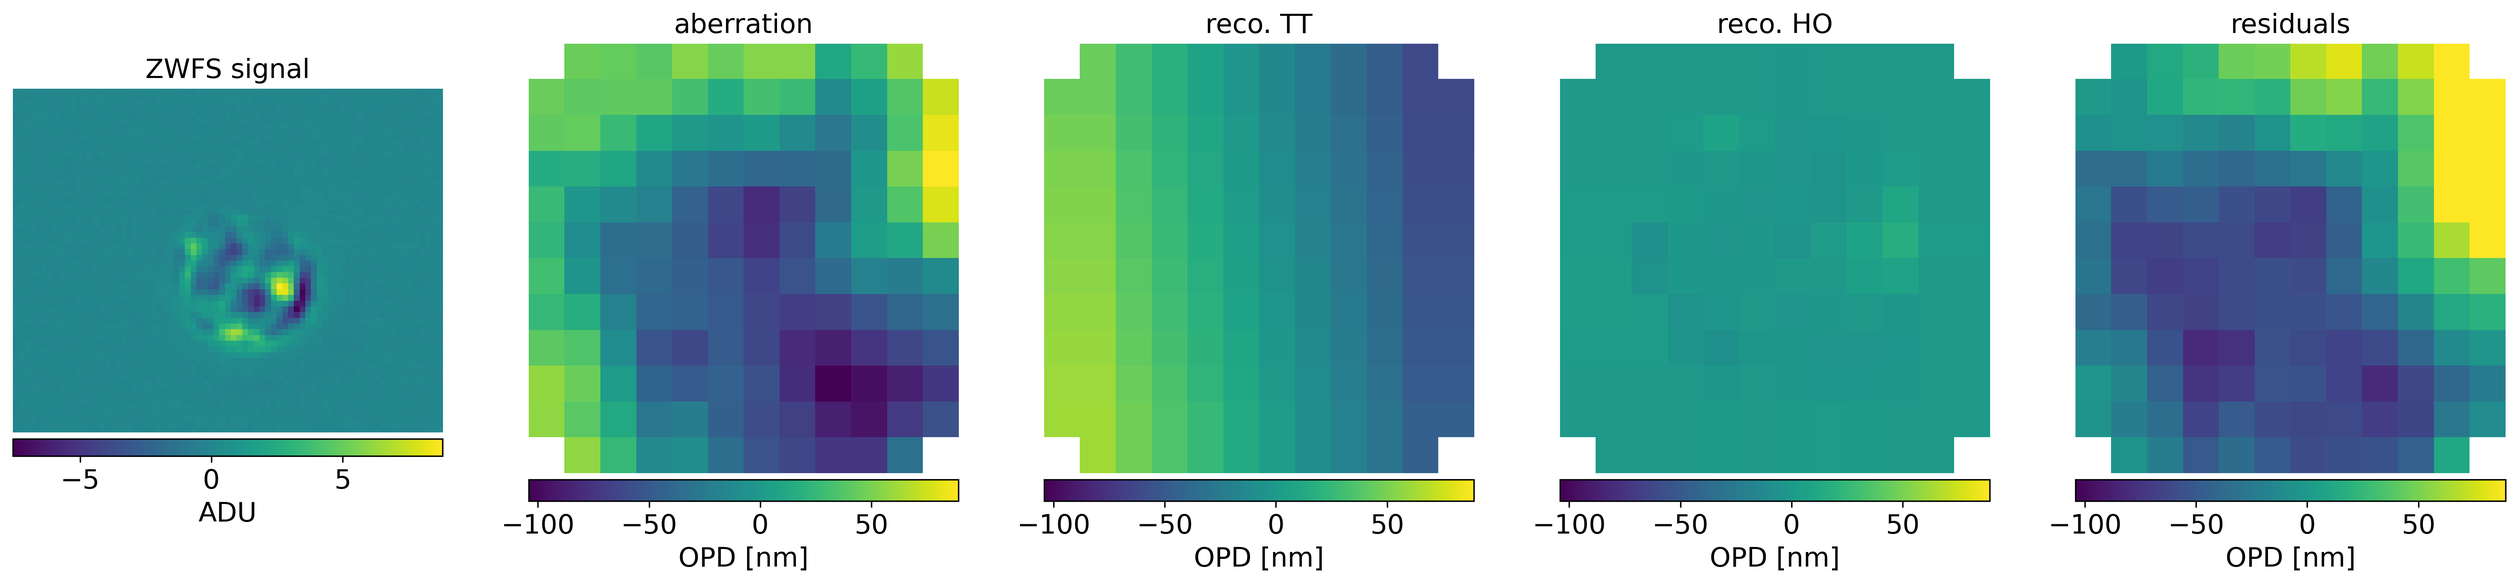
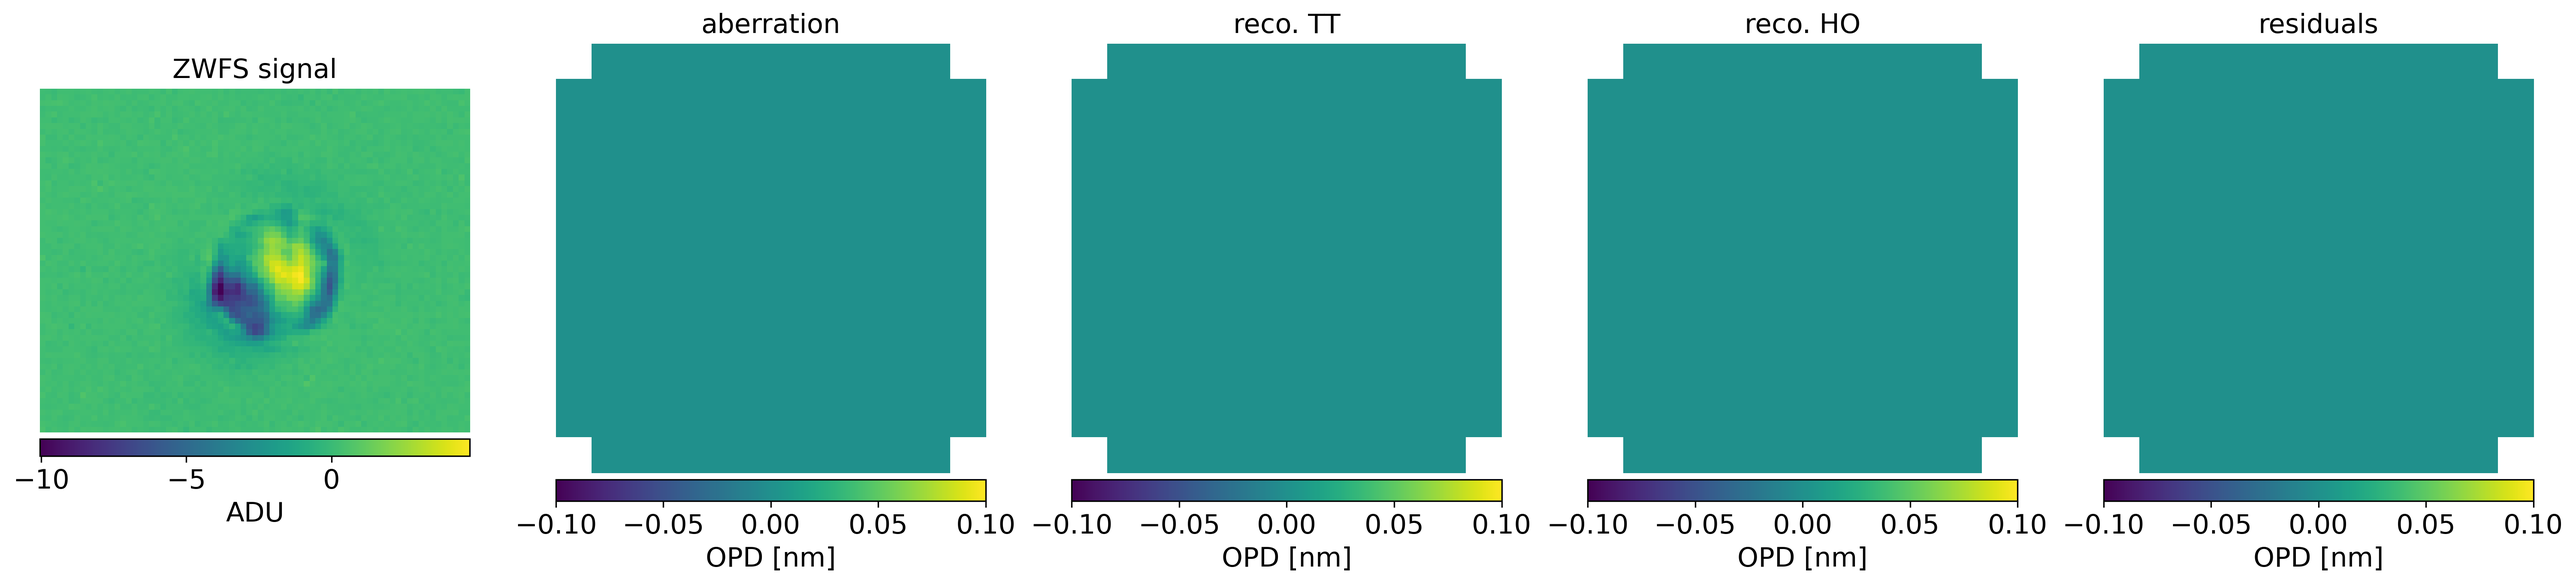
small adjustments in phase reconstructor fits formatting

diff --git a/playground/analyse_reconstructors.py b/playground/analyse_reconstructors.py
@@ -199,13 +199,13 @@ zwfs = ZWFS.ZWFS(DM_serial_number=DM_serial_number, cameraIndex=0, DMshapes_path
 # the sydney BMC multi-3.5 calibrated flat seems shit! Try with just a 
 
 # calibrated new one. Set here 
-new_flat_cmd = pd.read_csv( '/home/heimdallr/Documents/asgard-alignment/tmp/08-09-2024/optimize_ref_int_method_3/newflat_test_3/calibrated_flat_phasemas-J3.csv').values[:,1]
+new_flat_cmd = pd.read_csv('/home/heimdallr/Documents/asgard-alignment/DMShapes/BEST_calibrated_DMflat_12-09-2024T10.04.32.csv' ,header=None ).values.ravel() #'/home/heimdallr/Documents/asgard-alignment/tmp/08-09-2024/optimize_ref_int_method_3/newflat_test_3/calibrated_flat_phasemas-J3.csv').values[:,1]
 
 #zwfs.dm_shapes['flat_dm_original'] = zwfs.dm_shapes['flat_dm'].copy() # keep the original BMC calibrated flat 
 #zwfs.dm_shapes['flat_dm'] = new_flat_cmd  # update to ours! 
 
 zwfs.deactive_cropping() # zwfs.set_camera_cropping(r1, r2, c1, c2 ) #<- use this for latency tests , set back after with zwfs.set_camera_cropping(0, 639, 0, 511 ) 
-zwfs.set_camera_dit( 0.001 );time.sleep(0.2)
+zwfs.set_camera_dit( 0.005 );time.sleep(0.2)
 zwfs.set_camera_fps( 100 );time.sleep(0.2)
 zwfs.set_sensitivity('high');time.sleep(0.2)
 zwfs.enable_frame_tag(tag = True);time.sleep(0.2)
@@ -223,7 +223,7 @@ zwfs.start_camera()
 zwfs.build_manual_dark()
 
 # get our bad pixels 
-bad_pixels = zwfs.get_bad_pixel_indicies( no_frames = 200, std_threshold = 25 , flatten=False) # std_threshold = 50
+bad_pixels = zwfs.get_bad_pixel_indicies( no_frames = 200, std_threshold = 42 , flatten=False) # std_threshold = 50
 
 # update zwfs bad pixel mask and flattened pixel values 
 zwfs.build_bad_pixel_mask( bad_pixels , set_bad_pixels_to = 0 )
@@ -252,6 +252,7 @@ zwfs.dm.send_data(zwfs.dm_shapes['flat_dm'])
 phasemask_centering_tool.move_relative_and_get_image(zwfs, phasemask, savefigName=fig_path + 'delme.png')
 # if you like the improvement 
 # phasemask.update_mask_position( phasemask_name )
+# phasemask.update_all_mask_positions_relative_to_current( phasemask_name, 'phase_positions_beam_3 original_DONT_DELETE.json')
 # phasemask.write_current_mask_positions()
 
 # == automatic search 
@@ -291,7 +292,7 @@ I0, N0 = util.get_reference_images(zwfs, phasemask, theta_degrees=11.8, number_o
 compass = True, compass_origin=None, savefig=fig_path + f'FPM-in-out_{phasemask_name}.png' )
 
 """zwfs.pupil_pixel_filter =  (N0 > np.mean(N0) + 2 * np.std( N0))
-zwfs.pupil_pixel_filter[0,:]=False # first row has frame counts 
+zwfs.pupil_pixel_filter[0,:] = False # first row has frame counts 
 zwfs.pupil_pixel_filter = zwfs.pupil_pixel_filter.reshape(-1)
 """
 # plot the active pupil region registered 
@@ -316,7 +317,7 @@ fourier_phase_ctrl_90 = phase_control.phase_controller_1(config_file = None, bas
 #phase_ctrl.change_control_basis_parameters( controller_label = ctrl_method_label, number_of_controlled_modes=phase_ctrl.config['number_of_controlled_modes'], basis_name='Zonal' , dm_control_diameter=None, dm_control_center=None)
 
 
-zonal_dict = {'controller': zonal_phase_ctrl, 'poke_amp':0.07, 'poke_method':'double_sided_poke', 'inverse_method':'MAP', 'label':'zonal_0.07pokeamp_in-out_pokes_map' }
+zonal_dict = {'controller': zonal_phase_ctrl, 'poke_amp':0.04, 'poke_method':'double_sided_poke', 'inverse_method':'MAP', 'label':'zonal_0.04pokeamp_in-out_pokes_map' }
 zernike_dict_90 = {'controller': zernike_phase_ctrl_90, 'poke_amp':0.2, 'poke_method':'double_sided_poke', 'inverse_method':'MAP', 'label':'zernike_0.2pokeamp_in-out_pokes_map' }
 zernike_dict_20  = {'controller': zernike_phase_ctrl_20, 'poke_amp':0.2, 'poke_method':'double_sided_poke', 'inverse_method':'MAP', 'label':'zernike_0.2pokeamp_in-out_pokes_map' }
 zernike_dict_20_pinv  = {'controller': zernike_phase_ctrl_20, 'poke_amp':0.2, 'poke_method':'double_sided_poke', 'inverse_method':'pinv', 'label':'zernike_0.2pokeamp_in-out_pokes_map' }
@@ -326,10 +327,10 @@ fourier_dict_20_pinv = {'controller': fourier_phase_ctrl_20, 'poke_amp':0.2, 'po
 fourier_dict_90_pinv = {'controller': fourier_phase_ctrl_90, 'poke_amp':0.2, 'poke_method':'double_sided_poke', 'inverse_method':'pinv', 'label':'fourier90_0.2pokeamp_in-out_pokes_pinv' }
 
 build_dict = {
-    'zonal':zonal_dict ,
+    'zonal':zonal_dict
     #'zernike_20modes_map':zernike_dict_20,
     #'zernike_90modes_pinv':zernike_dict_90,
-    'fourier_90modes_pinv':fourier_dict_90_pinv
+    #'fourier_90modes_pinv':fourier_dict_90_pinv
     #'fourier_20modes_pinv':fourier_dict_20_pinv,
     #'fourier_20modes_map':fourier_dict_20
 }
@@ -361,9 +362,10 @@ build_dict = {
 #itera = 3 # back to calibrated flat - including 90 Fourier pinned modes
 #itera = 4 # get 90 fourier modes (fix bug) 
 
-itera = 5 # go through different phasemasks 
-
-
+#itera = 5 # go through different phasemasks 
+#itera = 1 #'new_flat'
+#itera = 2 #'smaller poke amp 
+itera = 10 # why not last ones 
 
 zwfs.dm.send_data( zwfs.dm_shapes['flat_dm'] ) 
 #subprocess.run()
@@ -401,7 +403,7 @@ for basis in  build_dict:
     zwfs.write_reco_fits( build_dict[basis]['controller'], label, save_path=current_path, save_label=label)
 
     # get an image associated with file of the pupils.
-    I0, N0 = util.get_reference_images(zwfs, phasemask, theta_degrees=11.8, number_of_frames=256, \
+    I0_now, N0_now = util.get_reference_images(zwfs, phasemask, theta_degrees=11.8, number_of_frames=256, \
 compass = True, compass_origin=None, savefig=current_path + f'FPM-in-out_{phasemask_name}_{label}.png' )
 
 
@@ -454,7 +456,7 @@ for basis in build_dict:
     camera_info_dict = util.get_camera_info(zwfs.camera)
     for k,v in camera_info_dict.items():
         frame_fits.header.set(k,v)
-    frame_fits.writeto( current_path + 'FRAMES_FPM_IN.fits')
+    frame_fits.writeto( current_path + f'FRAMES_FPM_IN_{tstamp}.fits')
 
     img_var = np.var( frames ,axis=0) #zwfs.get_image()
     img_mean = np.mean( frames ,axis=0) #zwfs.get_image()
@@ -606,10 +608,7 @@ for basis in build_dict:
 
             reco_openloop_fits.append( tmp_fits )
     
-    reco_openloop_fits.writeto( current_path + 'reco_open_loop_test.fits')
-
-
-
+    reco_openloop_fits.writeto( current_path + f'reco_open_loop_test_{tstamp}.fits')
 
 
 

diff --git a/common/m_alignment_GUI.py b/common/m_alignment_GUI.py
@@ -8,7 +8,7 @@ import asgard_alignment.Instrument
 # st.set_page_config(layout="wide")
 
 st.title("Motor control for Heimdallr alignment")
-
+ 0
 if "instrument" not in st.session_state:
     st.session_state.instrument = asgard_alignment.Instrument.Instrument(
         "motor_info_no_linear_with_zaber.json"
